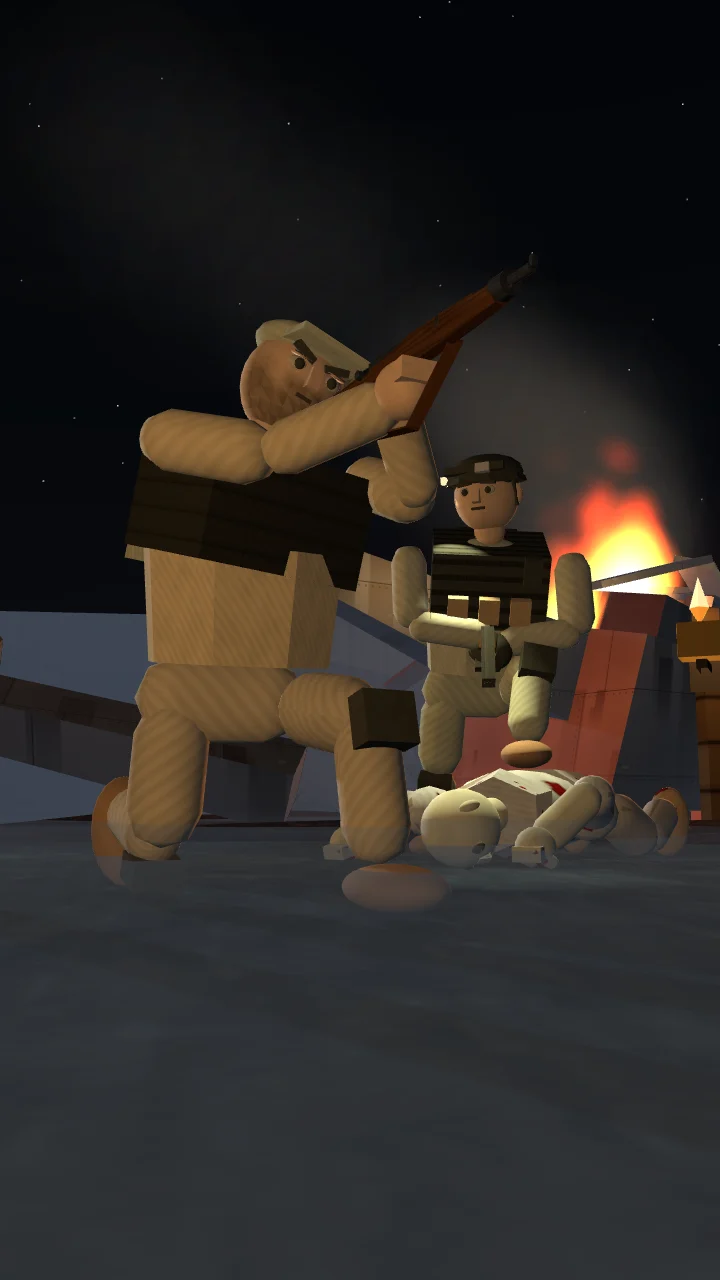
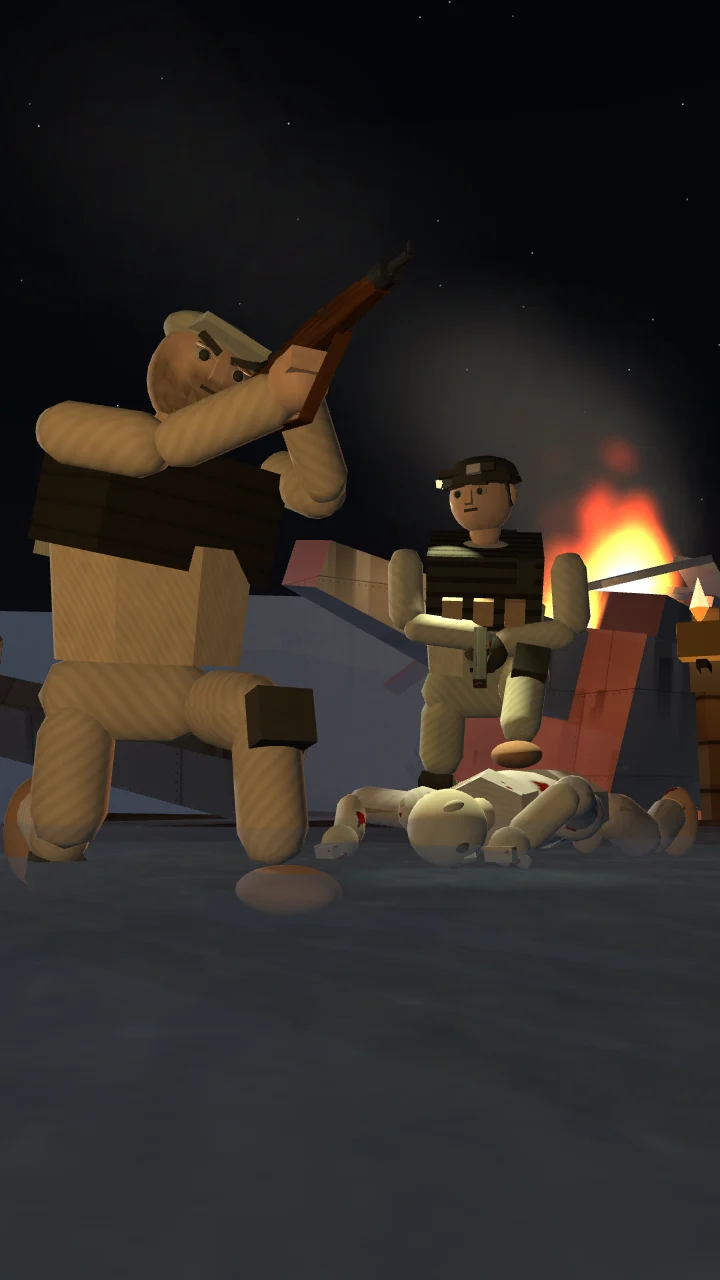
accueil-v2 retours 2: personnage 1 décalé à gauche sur téléphone, douille du Colt vers la droite
Claude-Session: https://claude.ai/code/session_01MNJ5sgcxUrG12pySj3aX8r

Changed region(s): [[0.0, 0.2188, 0.8556, 0.7188], [0.8861, 0.5938, 0.9778, 0.6562]]

diff --git a/scene-v2/js/scene.js b/scene-v2/js/scene.js
@@ -102,11 +102,12 @@ try {
 
   // Coup de feu du personnage 1 (un par boucle).
   const laiton = new THREE.Color().setRGB(...m.lookup('--perso-casque').map((c) => c / 255), THREE.SRGBColorSpace);
-  // Kar98k : éclair un peu plus grand ; la douille sort de la fenêtre d'éjection quand la culasse est tirée (manœuvre du verrou).
+  // Colt (personnage 2, plus bas) : sa douille part vers le bord droit de l'image, tout proche (retour du propriétaire : elle traversait
+  // l'image vers la gauche). Kar98k : éclair un peu plus grand ; la douille sort de la fenêtre d'éjection quand la culasse est tirée (manœuvre du verrou).
   const tir = creerTir({ palette, laiton, echelle: ECHELLE_SCENE, arme: kar, ejection: ejectionKar(kar), fenetre: new THREE.Vector3(-0.7, 1.1, -2.2), force: 1.15, camera: () => window.__plan ?? camera, vol: { cote: 180, haut: 70 } });
   scene.add(tir.group);
   // Détails : coup de feu du personnage 2 sur le zombie (TIR_P2).
-  const tir2 = details ? creerTir({ palette, laiton, echelle: ECHELLE_SCENE, instant: TIR_P2, lumiereMax: 1100, arme: colt, fenetre: new THREE.Vector3(-0.6, 1.9, 0.6), force: 0.8, camera: () => window.__plan ?? camera, vol: { cote: 250, haut: 120 } }) : null; // canon vers le bas, tout près de lui : éclat plus faible
+  const tir2 = details ? creerTir({ palette, laiton, echelle: ECHELLE_SCENE, instant: TIR_P2, lumiereMax: 1100, arme: colt, fenetre: new THREE.Vector3(-0.6, 1.9, 0.6), force: 0.8, camera: () => window.__plan ?? camera, vol: { cote: 250, haut: 120, ecran: 1 } }) : null; // canon vers le bas, tout près de lui : éclat plus faible
   if (tir2) scene.add(tir2.group);
 
   // Lampe frontale du personnage 2 (variante B du jeu) : un faisceau faible vers la tête du zombie.

diff --git a/scene-v2/js/cadrages.js b/scene-v2/js/cadrages.js
@@ -16,7 +16,8 @@ export const CADRAGES = {
     // défaut) à droite de la caméra, droitier (?tireur=droitier) à gauche ; assez bas pour que la bouche du fusil et l'éclair du tir restent
     // dans l'image (js/poses.js, TIREUR, PLACEMENT.p1Vise).
     paysage: { cam: [-46, 8, 122], vise: [4, 42, -30], fov: 44, placement: { zombie: { x: 75.8, z: -8.8 }, p1Cap: { gaucher: 12, droitier: -6 }, p1Vise: { gaucher: [330, 0, 900], droitier: [-800, 0, 700] } } },
-    portrait: { cam: [-40, 8, 126], vise: [-8, 31, -20], fov: 62, placement: { p1Cap: { gaucher: 12, droitier: -6 }, p1Vise: { gaucher: [200, 0, 900], droitier: [-300, 0, 900] } } },
+    // v2 : sur téléphone, personnage 1 décalé un peu vers la gauche (p1, retour du propriétaire : un peu d'espace entre les deux personnages).
+    portrait: { cam: [-40, 8, 126], vise: [-8, 31, -20], fov: 62, placement: { p1: { x: -38 }, p1Cap: { gaucher: 12, droitier: -6 }, p1Vise: { gaucher: [200, 0, 900], droitier: [-300, 0, 900] } } },
   },
   C: {
     nom: 'Trois quarts',

diff --git a/scene-v2/planche.html b/scene-v2/planche.html
@@ -82,6 +82,13 @@
         en haut. Détail des fichiers : <code>scene-v2/jeu/ORIGINE.json</code>.</p>
       <ol class="historique" reversed>
         <li>
+          <p class="quand"><strong>20/11/2026</strong> · <code>dev</code> @ <code>622df2c</code> (copie inchangée) · retours du propriétaire</p>
+          <ul>
+            <li>Téléphone : personnage 1 un peu plus à gauche, un espace le sépare du personnage 2.</li>
+            <li>La douille du Colt part vers le bord droit de l'image (elle traversait toute l'image vers la gauche).</li>
+          </ul>
+        </li>
+        <li>
           <p class="quand"><strong>19/11/2026</strong> · <code>dev</code> @ <code>622df2c</code> (copie inchangée) · retours du propriétaire</p>
           <ul>
             <li>Personnage 1 <strong>gaucher</strong> : il vise à droite de l'écran (comme la v1), visage visible, œil droit fermé au tir ;

diff --git a/scene-v2/js/tir.js b/scene-v2/js/tir.js
@@ -199,7 +199,10 @@ export function creerTir({ palette, laiton, echelle = 1, instant = TIR, lumiereM
         vitesse.copy(side);
         if (cam) {
           droiteCam.set(1, 0, 0).applyQuaternion(cam.quaternion);
-          vitesse.addScaledVector(droiteCam, side.dot(droiteCam) >= 0 ? 1.1 : -1.1).setY(0).normalize();
+          // J.ecran (facultatif) : bord de l'image imposé (1 : droite, −1 : gauche) ; sinon celui du côté de la fenêtre d'éjection.
+          const bord = J.ecran ?? (side.dot(droiteCam) >= 0 ? 1 : -1);
+          if (J.ecran) vitesse.multiplyScalar(0.25);
+          vitesse.addScaledVector(droiteCam, 1.1 * bord).setY(0).normalize();
         }
         douille.position.copy(depart).addScaledVector(vitesse, J.cote * vol * k).addScaledVector(fwd, -J.arriere * vol * k);
         douille.position.y += (J.haut * vol - 0.5 * J.pesanteur * vol * vol) * k;

diff --git a/Docs/ref/scene-accueil-v2.md b/Docs/ref/scene-accueil-v2.md
@@ -54,13 +54,16 @@ personnage 1, tenues, visages, barbe, gilets.
   fin de la boucle.
 - Point visé et orientation du personnage 1 réglés par tireur et par format (`placement.p1Cap`, `placement.p1Vise` dans
   `scene-v2/js/cadrages.js`) pour que la bouche du fusil et l'éclair restent dans l'image.
+- **Téléphone** : le personnage 1 est décalé de 8 unités vers la gauche (`placement.p1` du cadrage B portrait, `scene-v2/js/cadrages.js`) pour
+  laisser un peu d'espace entre lui et le personnage 2 ; au-delà, son dos sortait du cadre à gauche.
 - **Personnage 2 au Colt** : même pose que la v1 (pied sur le dos du zombie, canon pointé sur sa tête), mains aux prises du Colt
   (`PRISES.m1911` : poing droit autour de la poignée, main gauche qui l'enveloppe), arme un peu plus près du corps (le Colt est plus petit
   que l'ancien pistolet).
 - **Douilles** (`scene-v2/js/tir.js`, `DOUILLE`) : éjectées du côté droit de l'arme, vers le bord de l'image de ce côté et vers le haut, puis
   pesanteur ; elles volent **jusqu'à sortir de l'image** (elles sont cachées seulement une fois hors du champ de la caméra, jamais en l'air)
   et restent au-dessus du sol. Kar98k : quand la culasse est tirée (vers 6,0 s), sortie par le bord gauche en 0,3 s environ ; Colt : au coup
-  de feu (2,6 s), elle traverse l'image vers la gauche (0,8 s environ). Taille lisible (au moins 2,1 de long), laiton qui accroche la
+  de feu (2,6 s), elle part vers le **bord droit** de l'image, tout proche (option `ecran: 1`, choix du propriétaire : elle traversait
+  toute l'image vers la gauche), sortie en 0,2 s (paysage) à 0,6 s (portrait). Taille lisible (au moins 2,1 de long), laiton qui accroche la
   lumière. Toujours cachées avant la fin de la boucle.
 - **Corps** : le jeu a maintenant un « corps long » (épaules à 9 au lieu de 11,5, bras × 1,2). La v2 ne le prend pas encore (`corps: null`
   dans `scene-v2/js/persos.js`) : elle garde les épaules d'avant et ses propres bras allongés (22, presque la longueur du corps long : 22,8),

diff --git a/Docs/lots/lot-5a.md b/Docs/lots/lot-5a.md
@@ -118,6 +118,15 @@ voir la PR. Trajectoires mesurées (position dans l'image toutes les 0,05 s) : e
 gauche de l'image, toujours au-dessus du sol ; celle du Colt passe un instant derrière le personnage 1.
 La question 1 (« direction du tir ») est tranchée : à droite de l'écran.
 
+## Deuxièmes retours (20/11/2026, branche `accueil-v2-retours-2`)
+1. **Téléphone** : personnage 1 décalé un peu vers la gauche (8 unités, `placement.p1` du cadrage B portrait) : un espace sépare maintenant les
+   deux personnages. Au-delà de 8, son dos sortait du cadre à gauche. Ordinateur inchangé.
+2. **Douille du Colt** : elle part maintenant vers le **bord droit** de l'image, tout proche du personnage 2 (option `ecran: 1` de
+   `creerTir`), au lieu de traverser toute l'image vers la gauche : sortie en 0,2 s en paysage, 0,6 s en portrait, toujours au-dessus du sol.
+
+Vérifications : `node scene-v2/outils/verifier.mjs` 47/47 ; boucle portrait parfaite (jonction 0,52 pour une moyenne de 0,66) ; planche
+refaite.
+
 ## État git
 - Commits `accueil-v2 A` à `accueil-v2 E` sur la branche `accueil-v2` (poussée), PR vers `main` fusionnée par l'agent (règle de
   `CLAUDE.md`) : rien n'est visible des visiteurs.
